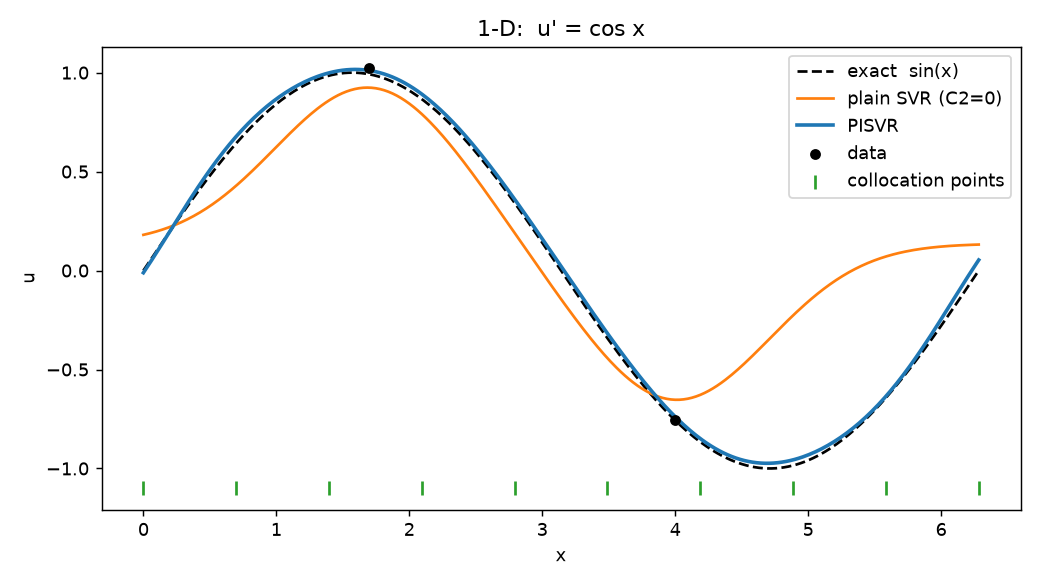
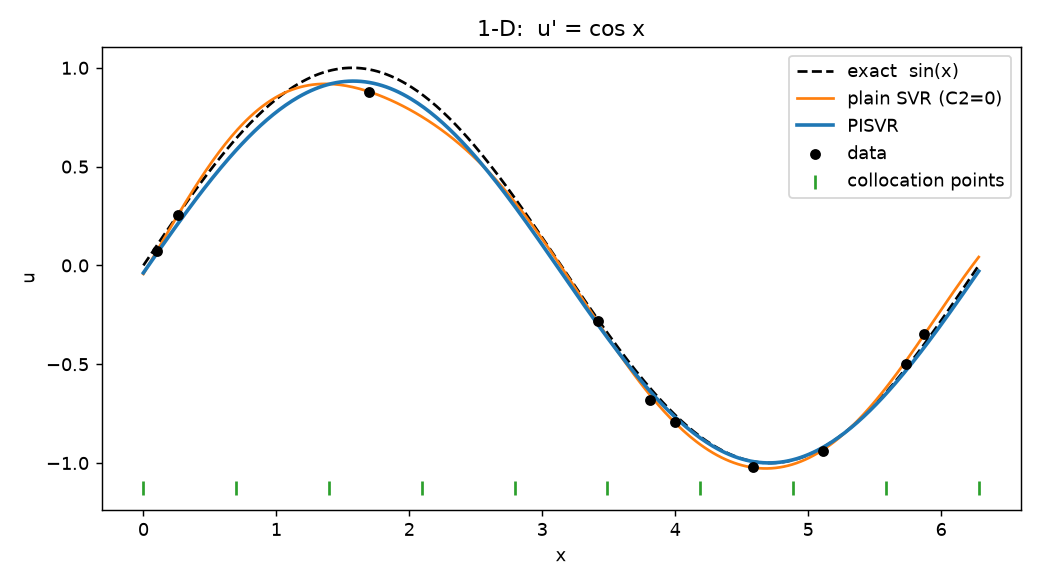
added hyperparam optimization

diff --git a/pisvr.py b/pisvr.py
@@ -2,7 +2,10 @@ import numpy as np
 import sympy as sp
 import jax
 import jax.numpy as jnp
-from cvxpy import Problem, Minimize, Variable, quad_form, psd_wrap
+from scipy.optimize import minimize
+from cvxpy import Problem, Minimize, Variable, quad_form, psd_wrap, Parameter, sum_squares
+from cvxpylayers.jax import CvxpyLayer
+from sklearn.model_selection import KFold
  
 jax.config.update("jax_enable_x64", True)
  
@@ -13,60 +16,51 @@ def _arr(X):
  
 class PISVR:
  
-    def __init__(self, m, lambda_, eps1, C1, eps2, C2, L, f, pde_params=None):
+    def __init__(self, m, lam, eps1, C1, eps2, C2, L, f, pde_params=None):
         self.m = m
-        self.lambda_ = lambda_
-        self.eps1 = eps1
-        self.C1 = C1
-        self.eps2 = eps2
-        self.C2 = C2
+        self.lam = float(lam)
+        self.eps1 = float(eps1)
+        self.C1 = float(C1)
+        self.eps2 = float(eps2)
+        self.C2 = float(C2)
         self.L = L
         self.f = f
         self.pde_params = {} if pde_params is None else pde_params
  
         self.x1 = sp.Matrix(sp.symbols(f"x1_1:{m+1}", real=True))
         self.x2 = sp.Matrix(sp.symbols(f"x2_1:{m+1}", real=True))
-        self.lam = sp.Symbol("lam", positive=True)
-        k = sp.exp(-self.lam * (self.x1 - self.x2).dot(self.x1 - self.x2))
-        args = (list(self.x1), list(self.x2), self.lam)
+        self.lam_sym = sp.Symbol("lam", positive=True)
+        k = sp.exp(-self.lam_sym * (self.x1 - self.x2).dot(self.x1 - self.x2))
+        args = (list(self.x1), list(self.x2), self.lam_sym)
  
         self._K = self._gram_fn(sp.lambdify(args, k, "jax"))
         self._Lx1K = self._gram_fn(sp.lambdify(args, L(k, self.x1), "jax"))
         self._Lx2K = self._gram_fn(sp.lambdify(args, L(k, self.x2), "jax"))
         self._Lx1Lx2K = self._gram_fn(sp.lambdify(args, L(L(k, self.x1), self.x2), "jax"))
         self.L1 = float(L(sp.Integer(1), self.x1))
- 
-    def _hp(self, hp=None):
-        d = dict(lam=self.lambda_, eps1=self.eps1, C1=self.C1, eps2=self.eps2, C2=self.C2)
-        if hp:
-            d.update(hp)
-        return d
     
     @staticmethod
     def _gram_fn(fun):
         row = jax.vmap(fun, in_axes=(None, 0, None))
         return jax.jit(jax.vmap(row, in_axes=(0, None, None)))
  
-    def _lam(self, lam):
-        return self.lambda_ if lam is None else lam
+    def RBF(self, X1, X2, lam):
+        return self._K(_arr(X1), _arr(X2), lam)
  
-    def RBF(self, X1, X2, lam=None):
-        return self._K(_arr(X1), _arr(X2), self._lam(lam))
+    def Lx1RBF(self, X1, X2, lam):
+        return self._Lx1K(_arr(X1), _arr(X2), lam)
  
-    def Lx1RBF(self, X1, X2, lam=None):
-        return self._Lx1K(_arr(X1), _arr(X2), self._lam(lam))
+    def Lx2RBF(self, X1, X2, lam):
+        return self._Lx2K(_arr(X1), _arr(X2), lam)
  
-    def Lx2RBF(self, X1, X2, lam=None):
-        return self._Lx2K(_arr(X1), _arr(X2), self._lam(lam))
- 
-    def Lx1Lx2RBF(self, X1, X2, lam=None):
-        return self._Lx1Lx2K(_arr(X1), _arr(X2), self._lam(lam))
+    def Lx1Lx2RBF(self, X1, X2, lam):
+        return self._Lx1Lx2K(_arr(X1), _arr(X2), lam)
  
     @staticmethod
     def block(M):
         return jnp.block([[M, -M], [-M, M]])
  
-    def P(self, X_data, X_phys, lam=None):
+    def P(self, X_data, X_phys, lam):
         K11 = self.block(self.RBF(X_data, X_data, lam))
         K12 = self.block(self.Lx2RBF(X_data, X_phys, lam))
         K21 = self.block(self.Lx1RBF(X_phys, X_data, lam))
@@ -82,67 +76,138 @@ class PISVR:
             return jnp.asarray(np.array([self.f(z) for z in np.asarray(X_phys)]),
                                dtype=jnp.float64)
  
-    def q(self, y_data, X_phys, eps1=None, eps2=None):
-        eps1 = self.eps1 if eps1 is None else eps1
-        eps2 = self.eps2 if eps2 is None else eps2
+    def q(self, y_data, X_phys, eps1, eps2):
         y = _arr(y_data)
         fX = self.f_values(X_phys)
         n, N = y.shape[0], fX.shape[0]
         return jnp.hstack([eps1 * jnp.ones(n) - y, eps1 * jnp.ones(n) + y,
                            eps2 * jnp.ones(N) - fX, eps2 * jnp.ones(N) + fX])
  
-    def eq(self, n, N):
-        row = jnp.hstack([jnp.ones(n), -jnp.ones(n),
-                          self.L1 * jnp.ones(N), -self.L1 * jnp.ones(N)])
+    def eq(self, n_data, n_phys):
+        row = jnp.hstack([jnp.ones(n_data), -jnp.ones(n_data),
+                          self.L1 * jnp.ones(n_phys), -self.L1 * jnp.ones(n_phys)])
         return row.reshape(1, -1), jnp.zeros(1)
  
-    def bounds(self, n, N, C1=None, C2=None):
-        C1 = self.C1 if C1 is None else C1
-        C2 = self.C2 if C2 is None else C2
-        lb = jnp.zeros(2 * n + 2 * N)
-        ub = jnp.hstack([C1 * jnp.ones(2 * n), C2 * jnp.ones(2 * N)])
+    def bounds(self, n_data, n_phys, C1, C2):
+        lb = jnp.zeros(2 * n_data + 2 * n_phys)
+        ub = jnp.hstack([C1 * jnp.ones(2 * n_data), C2 * jnp.ones(2 * n_phys)])
         return lb, ub
  
     def ineq(self, n, N, C1=None, C2=None):
         lb, ub = self.bounds(n, N, C1, C2)
         return jnp.eye(2 * n + 2 * N), lb, ub
  
-    def qp_data(self, X_data, y_data, X_phys, hp=None):
-        h = self._hp(hp)
-        n, N = len(y_data), len(X_phys)
-        A_eq, b = self.eq(n, N)
-        lb, ub = self.bounds(n, N, h["C1"], h["C2"])
-        return dict(P=self.P(X_data, X_phys, h["lam"]),
-                    q=self.q(y_data, X_phys, h["eps1"], h["eps2"]),
+    def qp_data(self, X_data, y_data, X_phys, lam, C1, C2, eps1, eps2):
+        n_data, n_phys = len(y_data), len(X_phys)
+        A_eq, b = self.eq(n_data, n_phys)
+        lb, ub = self.bounds(n_data, n_phys, C1, C2)
+        return dict(P=self.P(X_data, X_phys, lam),
+                    q=self.q(y_data, X_phys, eps1, eps2),
                     A_eq=A_eq, b=b, lb=lb, ub=ub)
+
+    def forward_pass(self, params, n_splits=10):
+        lam, C1, C2, eps1, eps2 = params
+        n_data, n_phys = len(self.X_data), len(self.X_phys)
+        fold_mses = []
+        for fold, (train_idx, val_idx) in enumerate(self.split):
+            X_train, X_val = self.X_data[train_idx], self.X_data[val_idx]
+            y_train, y_val = self.y_data[train_idx], self.y_data[val_idx]
+            n_data_fold = len(y_train)
+            P = self.P(X_train, self.X_phys, lam)
+            Lt = jnp.linalg.cholesky(P + 1e-6 * jnp.eye(P.shape[0])).T
+            q = self.q(y_train, self.X_phys, eps1, eps2)
+            A_eq, b = self.eq(n_data_fold, n_phys)
+            lb, ub = self.bounds(n_data_fold, n_phys, C1, C2)
+            layer = self.define_cvxpylayer(n_data_fold, n_phys)
+            x, mu = self.layers[fold](Lt, q, A_eq, b, lb, ub)
+            alpha = x[:n_data_fold] - x[n_data_fold:2 * n_data_fold]
+            beta = x[2 * n_data_fold:2 * n_data_fold + n_phys] - x[2 * n_data_fold + n_phys:]
+
+            y_pred = (self.RBF(X_val, X_train, lam) @ alpha
+                      + self.Lx2RBF(X_val, self.X_phys, lam) @ beta + mu[0])
+            mean_squared_error = jnp.mean((y_val - y_pred) ** 2)
+            #print(f"Fold {fold + 1}/{n_splits}: Mean Squared Error = {mean_squared_error}")
+            fold_mses.append(mean_squared_error)
+        print(f"Cross-Validation: Mean MSE = {jnp.mean(jnp.array(fold_mses))}")
+        print(params)
+        return jnp.mean(jnp.array(fold_mses))
+        
+
+    def fit_cvxpylayer(self, X_data, y_data, X_phys, max_iter=100, lr=1e-4):
+        self.X_data = jnp.asarray(X_data)
+        self.y_data = jnp.asarray(y_data)
+        self.X_phys = jnp.asarray(X_phys)
+        for i in range(max_iter):
+            grad = jax.grad(self.forward_pass, argnums=(0, 1, 2, 3, 4))(self.lam, self.C1, self.C2, self.eps1, self.eps2)
+            #print(f"Iteration {i}: grad = {grad}")
+            # Update parameters using gradient descent
+            self.lam = max(self.lam - lr * grad[0], 1e-6)  # Ensure lam stays positive
+            self.C1 = max(self.C1 - lr * grad[1], 0.0)
+            self.C2 = max(self.C2 - lr * grad[2], 0.0)
+            self.eps1 = max(self.eps1 - lr * grad[3], 0.0)
+            self.eps2 = max(self.eps2 - lr * grad[4], 0.0)
+            print(f"Iteration {i}: lam={self.lam}, C1={self.C1}, C2={self.C2}, eps1={self.eps1}, eps2={self.eps2}")
+        return self.fit(self.X_data, self.y_data, self.X_phys)
+
+    def fit_cvxpylayer_bfgs(self, X_data, y_data, X_phys, n_splits=10):
+            self.X_data = jnp.asarray(X_data)
+            self.y_data = jnp.asarray(y_data)
+            self.X_phys = jnp.asarray(X_phys)
+
+            n_data, n_phys = len(self.X_data), len(self.X_phys)
+            kfold = KFold(n_splits=n_splits, shuffle=True, random_state=42)
+            self.split = list(kfold.split(self.X_data))
+            self.layers = [self.define_cvxpylayer(len(train_idx), n_phys) for train_idx, _ in self.split]
+
+            bounds = [(1e-6, None), (0.0, None), (0.0, None), (0.0, None), (0.0, None)]
+            result = minimize(self.forward_pass, x0=jnp.array([self.lam, self.C1, self.C2, self.eps1, self.eps2]), method='L-BFGS-B', bounds=bounds, jac=jax.grad(self.forward_pass, argnums=(0)))
+            x = result.x
+            self.lam, self.C1, self.C2, self.eps1, self.eps2 = x[0], x[1], x[2], x[3], x[4]
+            return self.fit(self.X_data, self.y_data, self.X_phys)
+
+    def cost_fn(self, x, Lt, q):
+        return 0.5 * x @ Lt @ Lt.T @ x + q @ x
  
-    def fit(self, X_data, y_data, X_phys, hp=None):
-        n, N = len(X_data), len(X_phys)
-        d = {k: np.asarray(v) for k, v in self.qp_data(X_data, y_data, X_phys, hp).items()}
+    def fit(self, X_data, y_data, X_phys):
+        n_data, n_phys = len(X_data), len(X_phys)
+
+        d = {k: np.asarray(v) for k, v in self.qp_data(X_data, y_data, X_phys, self.lam, self.C1, self.C2, self.eps1, self.eps2).items()}
  
-        x = Variable(2 * n + 2 * N)
+        x = Variable(2 * n_data + 2 * n_phys)
         con = d["A_eq"] @ x == d["b"]
         prob = Problem(Minimize(0.5 * quad_form(x, psd_wrap(d["P"])) + d["q"] @ x),
                        [x >= d["lb"], x <= d["ub"], con])
         prob.solve(solver="CLARABEL")
-        if x.value is None:
-            raise RuntimeError(f"QP solve failed: status = {prob.status}")
  
         x = x.value
-        self.alpha = x[:n]
-        self.alpha_ = x[n:2 * n]
-        self.beta = x[2 * n:2 * n + N]
-        self.beta_ = x[2 * n + N:]
+        self.alpha = x[:n_data]
+        self.alpha_ = x[n_data:2 * n_data]
+        self.beta = x[2 * n_data:2 * n_data + n_phys]
+        self.beta_ = x[2 * n_data + n_phys:]
         self.X_data = np.asarray(X_data)
         self.X_phys = np.asarray(X_phys)
-        self.hp_fit = self._hp(hp)
         self.b = float(np.ravel(con.dual_value)[0])
         return self
+
+    def define_cvxpylayer(self, n_data, n_phys):
+        n = 2 * (n_data + n_phys)
+        x = Variable(n)
+        Lt = Parameter((n, n))
+        q = Parameter(n)
+        A_eq = Parameter((1, n))
+        b = Parameter(1)
+        lb = Parameter(n)
+        ub = Parameter(n)
+        eq_con = A_eq @ x == b          # keep a handle to the constraint
+        prob = Problem(Minimize(0.5 * sum_squares(Lt @ x) + q @ x),
+                    [x >= lb, x <= ub, eq_con])
+        return CvxpyLayer(prob, parameters=[Lt, q, A_eq, b, lb, ub],
+                        variables=[x, eq_con.dual_variables[0]])
+        
  
     def predict(self, X_test):
-        lam = self.hp_fit["lam"]
         u = jnp.asarray(self.alpha - self.alpha_)
         v = jnp.asarray(self.beta - self.beta_)
-        out = (self.RBF(X_test, self.X_data, lam) @ u
-               + self.Lx2RBF(X_test, self.X_phys, lam) @ v + self.b)
+        out = (self.RBF(X_test, self.X_data, self.lam) @ u
+               + self.Lx2RBF(X_test, self.X_phys, self.lam) @ v + self.b)
         return np.asarray(out)

diff --git a/test_pisvr.py b/test_pisvr.py
@@ -27,23 +27,22 @@ L1d = lambda e, v: sp.diff(e, v[0])
 f1d = lambda x: np.cos(x[0])
 u1d = lambda x: np.sin(x)
 
-n, N = 2, 10
+n, N = 10, 10
 X = np.sort(rng.uniform(0, 2 * np.pi, n))[:, None]
 y = u1d(X[:, 0]) + 0.05 * rng.standard_normal(n)
 Xp = np.linspace(0, 2 * np.pi, N)[:, None]                 # collocation points
-print("shapes:", Xp.shape, X.shape, y.shape)
 Xt = np.linspace(0, 2 * np.pi, 400)[:, None]
 
-pi = PISVR(1, 1.0, 0.1, 10, 0.0, 100, L1d, f1d).fit(X, y, Xp)
-base = PISVR(1, 1.0, 0.1, 10, 0.0, 0.0, L1d, f1d).fit(X, y, Xp[:1])   # C2=0 -> plain SVR
+pi1 = PISVR(1, 0.1, 0.1, 10, 0.1, 100, L1d, f1d).fit_cvxpylayer_bfgs(X, y, Xp, n_splits=3)
+base = PISVR(1, 0.1, 0.1, 10, 0.0, 0.0, L1d, f1d).fit_cvxpylayer_bfgs(X, y, Xp[:1], n_splits=3)   # C2=0 -> plain SVR
 
-print(f"[1-D]  RMSE plain SVR: {rmse(base.predict(Xt), u1d(Xt[:, 0])):.4f}   "
-      f"PISVR: {rmse(pi.predict(Xt), u1d(Xt[:, 0])):.4f}")
-
+print(f"[1-D]  RMSE")
+print(f"  plain SVR: {rmse(base.predict(Xt), u1d(Xt[:, 0])):.4f}")
+print(f"  PISVR BFGS: {rmse(pi1.predict(Xt), u1d(Xt[:, 0])):.4f}")
 fig, ax = plt.subplots(figsize=(8, 4.5))
 ax.plot(Xt[:, 0], u1d(Xt[:, 0]), "k--", label="exact  sin(x)")
 ax.plot(Xt[:, 0], base.predict(Xt), color="tab:orange", label="plain SVR (C2=0)")
-ax.plot(Xt[:, 0], pi.predict(Xt), color="tab:blue", lw=2, label="PISVR")
+ax.plot(Xt[:, 0], pi1.predict(Xt), color="tab:blue", lw=2, label="PISVR")
 ax.scatter(X[:, 0], y, c="k", s=25, zorder=3, label="data")
 ax.scatter(Xp[:, 0], np.full(N, ax.get_ylim()[0]), marker="|", c="tab:green", s=60,
            label="collocation points")
@@ -61,7 +60,7 @@ lap = lambda e, v: sum(sp.diff(e, vi, 2) for vi in v)
 f2d = lambda x: -2 * np.sin(x[0]) * np.cos(x[1])
 u2d = lambda X: np.sin(X[:, 0]) * np.cos(X[:, 1])
 
-n, N = 20, 5
+n, N = 5, 5
 X2 = rng.uniform(0, 2 * np.pi, (n, 2))
 y2 = u2d(X2) + 0.1 * rng.standard_normal(n)
 
@@ -73,11 +72,17 @@ G1, G2 = np.meshgrid(g, g)
 Xg = np.column_stack([G1.ravel(), G2.ravel()])
 U = u2d(Xg)
 
-pi2 = PISVR(2, 0.1, 0.1, 10, 0.0, 100, lap, f2d).fit(X2, y2, Xp2)
-base2 = PISVR(2, 0.1, 0.1, 10, 0.0, 0.0, lap, f2d).fit(X2, y2, Xp2[:1])
-Up, Ub = pi2.predict(Xg), base2.predict(Xg)
+pi21 = PISVR(2, 0.1, 0.1, 10, 0.1, 100, lap, f2d).fit(X2, y2, Xp2)
+pi22 = PISVR(2, 0.1, 0.1, 10, 0.1, 100, lap, f2d).fit_cvxpylayer_bfgs(X2, y2, Xp2, n_splits=5)
+base21 = PISVR(2, 0.1, 0.1, 10, 0.0, 0.0, lap, f2d).fit(X2, y2, Xp2[:1])
+base22 = PISVR(2, 0.1, 0.1, 10, 0.0, 0.0, lap, f2d).fit_cvxpylayer_bfgs(X2, y2, Xp2[:1], n_splits=5)
+Up, Ub = pi22.predict(Xg), base22.predict(Xg)
 
-print(f"[2-D]  RMSE plain SVR: {rmse(Ub, U):.4f}   PISVR: {rmse(Up, U):.4f}")
+print(f"[2-D]  RMSE")
+print(f"PISVR: {rmse(pi21.predict(Xg), U)}")
+print(f"PISVR (HPO): {rmse(pi22.predict(Xg), U)}")
+print(f"SVR: {rmse(base21.predict(Xg), U)}")
+print(f"SVR (HPO): {rmse(base22.predict(Xg), U)}")
 
 fig, axs = plt.subplots(2, 3, figsize=(14, 8.5), constrained_layout=True)
 lv = np.linspace(-1.1, 1.1, 23)
